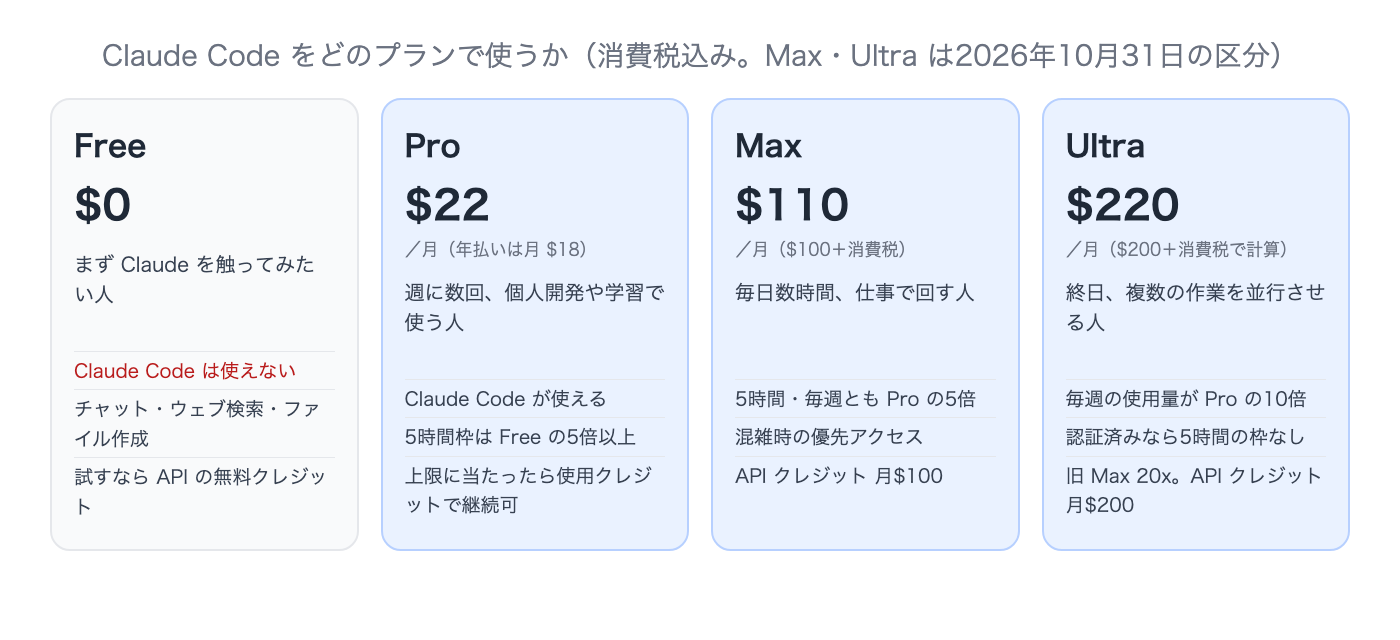
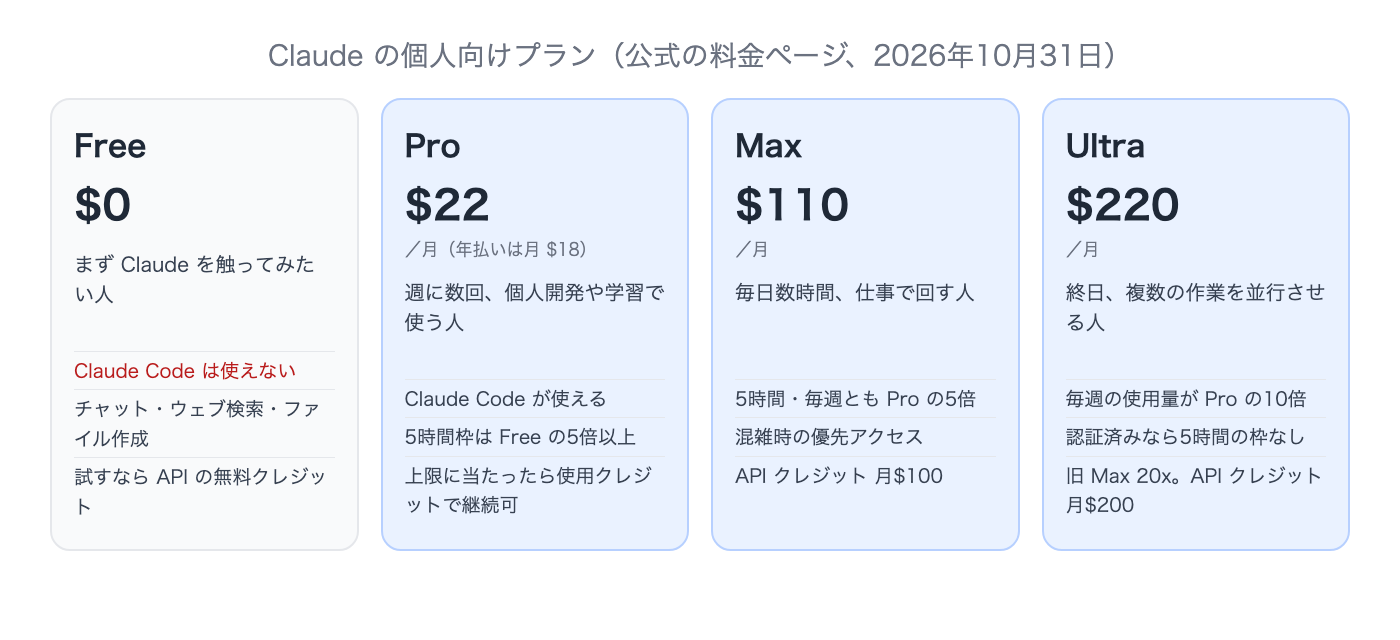
Claude 7記事: Ultra の $220 を日本の画面で確認済みとして断りを外す・API 単価を10/31に・modified
- 親がアプリ内ブラウザで claude.com/ja/pricing の Ultra「$220 月額」・Max「$110 月額」・Prices include 10% JCT を確認（10/31）。「$200＋消費税で計算」「未確認」の断りを本文・図・ai-compare.json から外した
- Max 20x からの改称と既存契約者の移行は Ultra のヘルプを出典に1か所だけ。JCT のお知らせを claude-pricing・claude-code-pricing の出典に追加
- claude-code-pricing: API の単価を 10/31 時点に（Fable 5.1・Opus 5.5・Sonnet 5.5・Haiku 5.5）、旧スクショ cc_05_api_pricing_table.jpg を外した
- claude-code-about: Max・Ultra の行、題を10月に
- 中身を直した7本に modified: 2026-10-31、ai-compare.json の claude と a1 の確認日を 10/31 に

Changed region(s): [[0.0614, 0.0625, 0.9214, 0.125], [0.7986, 0.375, 0.9214, 0.4062], [0.5529, 0.375, 0.645, 0.4062]]

diff --git a/media/posts/claude-cowork-guide.md b/media/posts/claude-cowork-guide.md
@@ -1,6 +1,7 @@
 ---
 title: 【2026年10月】Claude Coworkとは？使い方・できること・料金｜チャットとの統合で変わった点
 date: 2026-09-20
+modified: 2026-10-31
 category: AI検索対策
 description: Claude Coworkの使い方を公式ヘルプ10本を一次ソースに解説。何ができるか、始め方、権限の設定、フォルダ・ブラウザ・コンピュータ操作、スケジュール、安全に使う条件、2026年9月のチャットとの統合まで。
 cover_tag: 使い方
@@ -163,7 +164,7 @@ Google Drive・Gmail・Microsoft 365・Slackなどを「カスタマイズ > コ
 
 ## 料金
 
-Coworkに追加料金はなく、Claudeの有料プランに含まれます。日本向けの料金ページ（[claude.com/ja/pricing](https://claude.com/ja/pricing)）は消費税込みの表示で、Proは月$22（年払いなら月$18）、Maxは月$110です。2026年10月にMax 20xから名前が変わったUltraは、米国の表示の$200に消費税10%を足して計算すると月$220です。使用量はチャットと同じ枠から減り、解説動画では「エージェントとして裏で動く指示が長いので、通常のチャットより枠に達しやすい」と説明されていました。プランの違いと上限の仕組みは[Claude Codeの料金プランの記事](https://nito-0210.com/media/claude-code-pricing/)に表でまとめています。
+Coworkに追加料金はなく、Claudeの有料プランに含まれます。日本向けの料金ページ（[claude.com/ja/pricing](https://claude.com/ja/pricing)）は消費税込みの表示で、Proは月$22（年払いなら月$18）、Maxは月$110、Ultraは月$220です。使用量はチャットと同じ枠から減り、解説動画では「エージェントとして裏で動く指示が長いので、通常のチャットより枠に達しやすい」と説明されていました。プランの違いと上限の仕組みは[Claude Codeの料金プランの記事](https://nito-0210.com/media/claude-code-pricing/)に表でまとめています。
 
 ## 最初に試すとよい3つ
 

diff --git a/media/posts/claude-enterprise.md b/media/posts/claude-enterprise.md
@@ -1,6 +1,7 @@
 ---
 title: 【2026年10月】Claude Enterpriseとは？料金の仕組み・Teamとの違い・20席から
 date: 2026-10-13
+modified: 2026-10-31
 category: AI活用
 description: Claude EnterpriseとTeamの違いを公式の料金ページとヘルプで整理。席料US$20に使った分のAPI料金が乗る仕組み、20席からの条件、SCIM・監査ログ・データ保持の差、申し込みと移行の注意まで。
 cover_tag: 法人
@@ -180,7 +181,7 @@ SCIMや権限、使用量の上限を整えたあと、決まった仕事をClau
 
 ## 出典
 
-すべて2026年10月13日に取得。料金ページのEnterpriseの欄の「最低20シート」は2026年10月17日、APIクレジットの対象にUltraが加わったことは2026年10月31日に確認。
+すべて2026年10月13日に取得。料金ページのEnterpriseの欄の「最低20シート」は2026年10月17日、APIクレジットの対象の表記がMax・Ultra・Teamになったことは2026年10月31日に確認。
 
 - Claude「[料金](https://claude.com/ja/pricing)」Team & Enterpriseタブ、プラン間の機能の比較表、FAQ
 - Claude「[Pricing](https://claude.com/pricing)」（米国向け）Team & Enterpriseタブ

diff --git a/media/posts/claude-team.md b/media/posts/claude-team.md
@@ -1,6 +1,7 @@
 ---
 title: 【2026年10月】Claude Teamプランとは？料金とProとの違い｜学習させない設定・2人から
 date: 2026-10-05
+modified: 2026-10-31
 category: AI活用
 description: Claude Teamプランの料金とProとの違いを公式の料金ページとヘルプで解説。スタンダードとプレミアムの使用量、会話が既定で学習に使われない点、2人からの条件、Proから移るときの注意、席の減らし方まで。
 cover_tag: 料金
